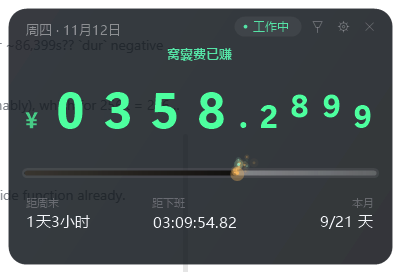
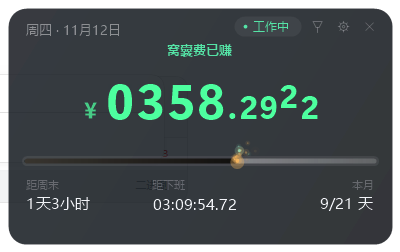
style(card): 收紧字距、字号上限 85px、卡片高度减 20px
数字单元格改用实际前进宽度并收 8% 负字距；金额字号上限提到 85px（宽 400px 放不下时
仍按宽度收敛）；卡片高度 272 → 252，进度条与底栏相应上移到 158/178/194。

diff --git a/host/CardWindow.cs b/host/CardWindow.cs
@@ -14,7 +14,7 @@ namespace WageClock
     internal sealed class CardWindow : Form
     {
         // ---- 逻辑尺寸（与旧卡片一致）----
-        const float W = 400f, H = 272f;
+        const float W = 400f, H = 252f;
         const float CardPad = 8f;
         const float Radius = 18f;
 
@@ -309,7 +309,7 @@ namespace WageClock
             using (var b = new SolidBrush(_pal.Accent))
             using (var sf = new StringFormat { Alignment = StringAlignment.Center })
             {
-                g.DrawString("窝囊费已赚", f, b, new RectangleF(0, 46, W, 20), sf);
+                g.DrawString("窝囊费已赚", f, b, new RectangleF(0, 42, W, 20), sf);
             }
         }
 
@@ -328,9 +328,9 @@ namespace WageClock
             using (var f = UiFont(11f, FontStyle.Regular))
             using (var b = new SolidBrush(_pal.Faint))
             {
-                DrawTextAt(g, "距周末", f, b, 24f, 196f);
-                DrawTextAt(g, "距下班", f, b, 150f, 196f);
-                RightText(g, "本月", f, b, 376f, 196f);
+                DrawTextAt(g, "距周末", f, b, 24f, 178f);
+                DrawTextAt(g, "距下班", f, b, 150f, 178f);
+                RightText(g, "本月", f, b, 376f, 178f);
             }
         }
 
@@ -366,7 +366,7 @@ namespace WageClock
             string cur = FormatDigits(_moneyCur, IntDigits, DecDigits);
 
             float avail = W - 44f;                       // 左右各留 22px
-            float intSize = FitMoneySize(g, avail);
+            float intSize = Math.Min(85f, FitMoneySize(g, avail));   // 上限 85px，放不下时按宽度收敛
             float decSize = intSize / 1.5f;              // 小数点后比前面小 1/3（前比后大 50%）
 
             using (var intFont = MoneyFont(intSize))
@@ -374,8 +374,8 @@ namespace WageClock
             using (var sf = new StringFormat { Alignment = StringAlignment.Center, LineAlignment = StringAlignment.Near })
             using (var brush = new SolidBrush(_pal.Neon))
             {
-                float intW = WidestDigit(g, intFont, sf);
-                float decW = WidestDigit(g, decFont, sf);
+                float intW = Advance(g, intFont) * 0.92f;   // 字距压缩一半左右
+                float decW = Advance(g, decFont) * 0.92f;
                 float dotW = decW * 0.55f;
                 float yenSize = intSize * 0.46f;
                 using (var yenFont = MoneyFont(yenSize))
@@ -386,7 +386,7 @@ namespace WageClock
                     float x = (W - totalW) / 2f;
 
                     // 统一基线：整数部分决定行高，小数部分按自身高度下移对齐
-                    float baseline = 74f + Ascent(intFont);   // 顶部固定 74，避免压到上方标签
+                    float baseline = 66f + Ascent(intFont);   // 顶部固定 66，避免压到上方标签
                     float intTop = baseline - Ascent(intFont);
                     float decTop = baseline - Ascent(decFont);
                     float rowH = intFont.GetHeight(g) * 1.02f;
@@ -441,7 +441,7 @@ namespace WageClock
         float FitMoneySize(Graphics g, float avail)
         {
             if (_moneySize > 0) return _moneySize;
-            for (float size = 104f; size >= 26f; size -= 2f)
+            for (float size = 85f; size >= 26f; size -= 2f)
             {
                 using (var f = MoneyFont(size))
                 using (var sf = new StringFormat { Alignment = StringAlignment.Center })
@@ -524,12 +524,12 @@ namespace WageClock
             using (var b = new SolidBrush(_pal.Txt))
             {
                 string weekend = _view.WeekendReached ? "已到周末" : Schedule.FormatSpan(_view.WeekendSeconds);
-                DrawTextAt(g, weekend, f, b, 24f, 212f);
+                DrawTextAt(g, weekend, f, b, 24f, 194f);
 
                 string off = _view.State == "off" ? "—" : Schedule.FormatClockCs(_view.OffWorkSeconds);
-                DrawTextAt(g, off, f, b, 150f, 212f);
+                DrawTextAt(g, off, f, b, 150f, 194f);
 
-                RightText(g, _view.ElapsedWorkdays + "/" + _view.MonthWorkdays + " 天", f, b, 376f, 212f);
+                RightText(g, _view.ElapsedWorkdays + "/" + _view.MonthWorkdays + " 天", f, b, 376f, 194f);
             }
         }
 
@@ -537,7 +537,7 @@ namespace WageClock
 
         RectangleF TrackRect()
         {
-            return new RectangleF(24f, 170f, W - 48f, 5f);
+            return new RectangleF(24f, 158f, W - 48f, 5f);
         }
 
         static Font UiFont(float size, FontStyle style)
@@ -557,6 +557,11 @@ namespace WageClock
             }
         }
 
+        /// <summary>数字的实际前进宽度（用于收紧字距）。</summary>
+        static float Advance(Graphics g, Font f)
+        {
+            return g.MeasureString("0000", f).Width / 4f;
+        }
         static float WidestDigit(Graphics g, Font f, StringFormat sf)
         {
             float max = 0;
